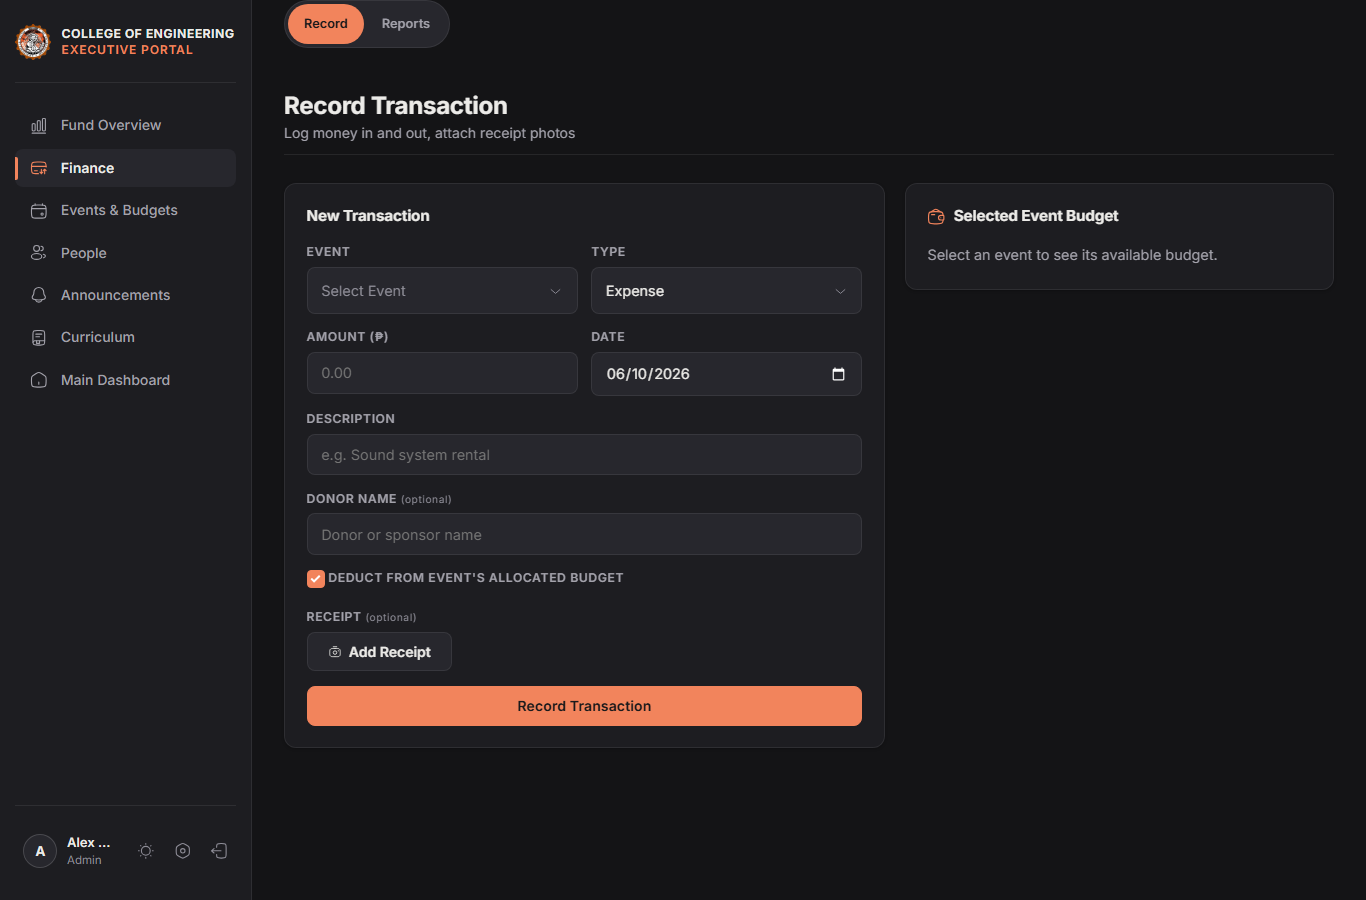
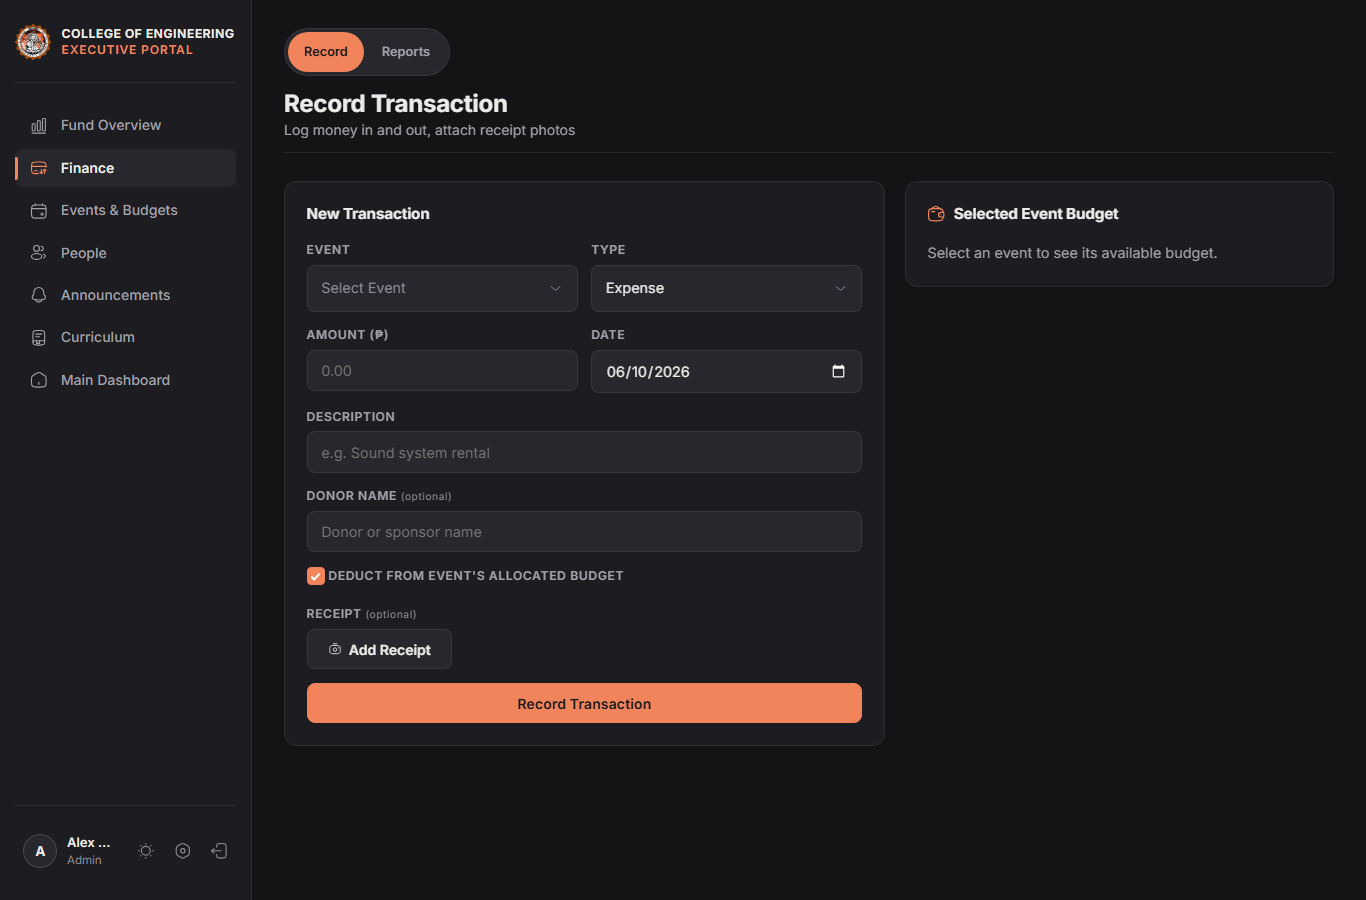
fix(ui): place view tabs inside the sticky header at content width
The pill track sat in its own band above the header, floating with a
large gap under it. It is now the header's first row: content width,
sharing the title's left edge, sticky with the header, with the title
left and the header controls right beneath it (grid when a header holds
a track; single column on phones).

Verified: verify-nav-consolidation 59/59, verify-student-experience
37/37, check_txs exit 0.

diff --git a/client/index.html b/client/index.html
@@ -408,11 +408,11 @@
 
       <!-- ANNOUNCEMENTS -->
       <section class="view" id="view-announcements">
-        <div class="view-tabs" role="tablist" aria-label="Updates">
-          <button type="button" class="view-tab" role="tab" aria-selected="false" data-view="announcements">Announcements</button>
-          <button type="button" class="view-tab" role="tab" aria-selected="false" data-view="notifications">For you</button>
-        </div>
         <div class="view-header">
+          <div class="view-tabs" role="tablist" aria-label="Updates">
+            <button type="button" class="view-tab" role="tab" aria-selected="false" data-view="announcements">Announcements</button>
+            <button type="button" class="view-tab" role="tab" aria-selected="false" data-view="notifications">For you</button>
+          </div>
           <div>
             <h2>Announcements</h2>
             <p class="view-sub">Every notice from the Student Council, newest first</p>
@@ -427,11 +427,11 @@
 
       <!-- NOTIFICATIONS -->
       <section class="view" id="view-notifications">
-        <div class="view-tabs" role="tablist" aria-label="Updates">
-          <button type="button" class="view-tab" role="tab" aria-selected="false" data-view="announcements">Announcements</button>
-          <button type="button" class="view-tab" role="tab" aria-selected="false" data-view="notifications">For you</button>
-        </div>
         <div class="view-header">
+          <div class="view-tabs" role="tablist" aria-label="Updates">
+            <button type="button" class="view-tab" role="tab" aria-selected="false" data-view="announcements">Announcements</button>
+            <button type="button" class="view-tab" role="tab" aria-selected="false" data-view="notifications">For you</button>
+          </div>
           <div>
             <h2>Notifications</h2>
             <p class="view-sub">Updates about your enrollment, your subjects, and council activity</p>
@@ -486,12 +486,12 @@
 
       <!-- TRANSACTIONS -->
       <section id="view-transactions" class="view ledger-view">
-        <div class="view-tabs" role="tablist" aria-label="Money">
-          <button type="button" class="view-tab" role="tab" aria-selected="false" data-view="transactions">Ledger</button>
-          <button type="button" class="view-tab" role="tab" aria-selected="false" data-view="income">Income</button>
-          <button type="button" class="view-tab" role="tab" aria-selected="false" data-view="reports">Reports</button>
-        </div>
         <div class="view-header ledger-header">
+          <div class="view-tabs" role="tablist" aria-label="Money">
+            <button type="button" class="view-tab" role="tab" aria-selected="false" data-view="transactions">Ledger</button>
+            <button type="button" class="view-tab" role="tab" aria-selected="false" data-view="income">Income</button>
+            <button type="button" class="view-tab" role="tab" aria-selected="false" data-view="reports">Reports</button>
+          </div>
           <div class="ledger-title-row">
             <h2>Transactions</h2>
             <div id="tx-overbudget-alert" class="hidden tx-overbudget-badge">
@@ -541,12 +541,12 @@
 
       <!-- TOTAL INCOME -->
       <section id="view-income" class="view">
-        <div class="view-tabs" role="tablist" aria-label="Money">
-          <button type="button" class="view-tab" role="tab" aria-selected="false" data-view="transactions">Ledger</button>
-          <button type="button" class="view-tab" role="tab" aria-selected="false" data-view="income">Income</button>
-          <button type="button" class="view-tab" role="tab" aria-selected="false" data-view="reports">Reports</button>
-        </div>
         <div class="view-header">
+          <div class="view-tabs" role="tablist" aria-label="Money">
+            <button type="button" class="view-tab" role="tab" aria-selected="false" data-view="transactions">Ledger</button>
+            <button type="button" class="view-tab" role="tab" aria-selected="false" data-view="income">Income</button>
+            <button type="button" class="view-tab" role="tab" aria-selected="false" data-view="reports">Reports</button>
+          </div>
           <div>
             <h2>Total Income Tracker</h2>
             <p class="view-sub">Track all external injections into the General Fund</p>
@@ -613,12 +613,12 @@
 
       <!-- REPORTS -->
       <section class="view reports-view" id="view-reports">
-        <div class="view-tabs" role="tablist" aria-label="Money">
-          <button type="button" class="view-tab" role="tab" aria-selected="false" data-view="transactions">Ledger</button>
-          <button type="button" class="view-tab" role="tab" aria-selected="false" data-view="income">Income</button>
-          <button type="button" class="view-tab" role="tab" aria-selected="false" data-view="reports">Reports</button>
-        </div>
         <div class="view-header">
+          <div class="view-tabs" role="tablist" aria-label="Money">
+            <button type="button" class="view-tab" role="tab" aria-selected="false" data-view="transactions">Ledger</button>
+            <button type="button" class="view-tab" role="tab" aria-selected="false" data-view="income">Income</button>
+            <button type="button" class="view-tab" role="tab" aria-selected="false" data-view="reports">Reports</button>
+          </div>
           <div>
             <h2>Financial Reports</h2>
             <p class="view-sub">Monthly summaries and breakdowns</p>
@@ -639,12 +639,12 @@
 
       <!-- Student Dashboard -->
       <section class="view" id="view-units">
-        <div class="view-tabs" role="tablist" aria-label="Academics">
-          <button type="button" class="view-tab" role="tab" aria-selected="false" data-view="units">Progress</button>
-          <button type="button" class="view-tab" role="tab" aria-selected="false" data-view="enrollment">Enrollment</button>
-          <a href="/cv-builder" class="view-tab" role="tab">Career Passport</a>
-        </div>
         <div class="view-header">
+          <div class="view-tabs" role="tablist" aria-label="Academics">
+            <button type="button" class="view-tab" role="tab" aria-selected="false" data-view="units">Progress</button>
+            <button type="button" class="view-tab" role="tab" aria-selected="false" data-view="enrollment">Enrollment</button>
+            <a href="/cv-builder" class="view-tab" role="tab">Career Passport</a>
+          </div>
           <div>
             <h2>Academic Progress</h2>
             <p class="view-sub">Log your subjects, grades, and graduation progress. Self-reported: this record is unofficial unless it carries the Registrar's seal.</p>
@@ -713,12 +713,12 @@
 
       <!-- Enrollment Verification (Phase B) -->
       <section class="view" id="view-enrollment">
-        <div class="view-tabs" role="tablist" aria-label="Academics">
-          <button type="button" class="view-tab" role="tab" aria-selected="false" data-view="units">Progress</button>
-          <button type="button" class="view-tab" role="tab" aria-selected="false" data-view="enrollment">Enrollment</button>
-          <a href="/cv-builder" class="view-tab" role="tab">Career Passport</a>
-        </div>
         <div class="view-header">
+          <div class="view-tabs" role="tablist" aria-label="Academics">
+            <button type="button" class="view-tab" role="tab" aria-selected="false" data-view="units">Progress</button>
+            <button type="button" class="view-tab" role="tab" aria-selected="false" data-view="enrollment">Enrollment</button>
+            <a href="/cv-builder" class="view-tab" role="tab">Career Passport</a>
+          </div>
           <div>
             <h2>Enrollment Verification</h2>
             <p class="view-sub">Build your proposed load, send it to your Program Head for review, and the Student Assistant (SA) encodes the verified list.</p>

diff --git a/client/officer.html b/client/officer.html
@@ -157,11 +157,11 @@
 
       <!-- 2. Record Transaction -->
       <section class="of-view" id="of-view-record">
-        <div class="view-tabs" role="tablist" aria-label="Finance">
-          <button type="button" class="view-tab" role="tab" aria-selected="false" data-of="record">Record</button>
-          <button type="button" class="view-tab" role="tab" aria-selected="false" data-of="reports">Reports</button>
-        </div>
         <div class="view-header of-view-head">
+          <div class="view-tabs" role="tablist" aria-label="Finance">
+            <button type="button" class="view-tab" role="tab" aria-selected="false" data-of="record">Record</button>
+            <button type="button" class="view-tab" role="tab" aria-selected="false" data-of="reports">Reports</button>
+          </div>
           <div>
             <h2>Record Transaction</h2>
             <p class="view-sub">Log money in and out, attach receipt photos</p>
@@ -298,11 +298,11 @@
 
       <!-- 4. Reports & Paper Trail -->
       <section class="of-view" id="of-view-reports">
-        <div class="view-tabs" role="tablist" aria-label="Finance">
-          <button type="button" class="view-tab" role="tab" aria-selected="false" data-of="record">Record</button>
-          <button type="button" class="view-tab" role="tab" aria-selected="false" data-of="reports">Reports</button>
-        </div>
         <div class="view-header of-view-head">
+          <div class="view-tabs" role="tablist" aria-label="Finance">
+            <button type="button" class="view-tab" role="tab" aria-selected="false" data-of="record">Record</button>
+            <button type="button" class="view-tab" role="tab" aria-selected="false" data-of="reports">Reports</button>
+          </div>
           <div>
             <h2>Reports &amp; Paper Trail</h2>
             <p class="view-sub">Financial summaries, exportable audit sheets, and the immutable audit log</p>
@@ -350,11 +350,11 @@
 
       <!-- 5. People & Access -->
       <section class="of-view" id="of-view-people">
-        <div class="view-tabs" role="tablist" aria-label="People">
-          <button type="button" class="view-tab" role="tab" aria-selected="false" data-of="people">Accounts</button>
-          <button type="button" class="view-tab" role="tab" aria-selected="false" data-of="roster">Enrolled roster</button>
-        </div>
         <div class="view-header of-view-head">
+          <div class="view-tabs" role="tablist" aria-label="People">
+            <button type="button" class="view-tab" role="tab" aria-selected="false" data-of="people">Accounts</button>
+            <button type="button" class="view-tab" role="tab" aria-selected="false" data-of="roster">Enrolled roster</button>
+          </div>
           <div>
             <h2>People &amp; Access</h2>
             <p class="view-sub" id="of-people-sub">Registered accounts and access privileges</p>
@@ -461,11 +461,11 @@
 
       <!-- 7. Enrolled Roster Management (Executive / Admin Only) -->
       <section class="of-view" id="of-view-roster">
-        <div class="view-tabs" role="tablist" aria-label="People">
-          <button type="button" class="view-tab" role="tab" aria-selected="false" data-of="people">Accounts</button>
-          <button type="button" class="view-tab" role="tab" aria-selected="false" data-of="roster">Enrolled roster</button>
-        </div>
         <div class="view-header of-view-head">
+          <div class="view-tabs" role="tablist" aria-label="People">
+            <button type="button" class="view-tab" role="tab" aria-selected="false" data-of="people">Accounts</button>
+            <button type="button" class="view-tab" role="tab" aria-selected="false" data-of="roster">Enrolled roster</button>
+          </div>
           <div>
             <h2>Official Enrolled Roster</h2>
             <p class="view-sub">Manage officially enrolled engineering students database for student portal verification</p>

diff --git a/client/styles/main.css b/client/styles/main.css
@@ -9424,7 +9424,7 @@ html body .bottom-nav .bottom-nav-item span:not(.nav-icon) { font-size: 0.72rem 
   align-items: center;
   gap: 2px;
   max-width: 100%;
-  margin-bottom: 1rem;
+  margin-bottom: 0.85rem;
   padding: 3px;
   overflow-x: auto;
   background: var(--bg-surface-raised);
@@ -9471,7 +9471,27 @@ html body .bottom-nav .bottom-nav-item span:not(.nav-icon) { font-size: 0.72rem 
 }
 .view-tab.active.has-unread::after { background: var(--accent-text-on); }
 
+/* Inside a view header the track is the header's first row at its content
+   width; the title sits beneath it on the left and the header's controls on
+   the right, the same arrangement the flex header produced. A grid is used
+   because a flex row cannot both break the line after the track and keep
+   the track at content width. */
+.view-header:has(> .view-tabs) {
+  display: grid;
+  grid-template-columns: minmax(0, 1fr) auto;
+  align-items: center;
+  column-gap: 1rem;
+  row-gap: 0.85rem;
+}
+.view-header > .view-tabs {
+  grid-column: 1 / -1;
+  justify-self: start;
+  margin-bottom: 0;
+}
+
 @media (max-width: 480px) {
   .view-tabs { display: flex; width: 100%; }
+  .view-header:has(> .view-tabs) { grid-template-columns: minmax(0, 1fr); row-gap: 0.5rem; }
+  .view-header > .view-tabs { justify-self: stretch; }
   .view-tab { flex: 1 1 0; padding: 0 0.5rem; text-align: center; }
 }

diff --git a/journal/2026-10-06.md b/journal/2026-10-06.md
@@ -22,3 +22,4 @@
 - [16:02] Folded the student sidebar from 12 entries to 5 (Dashboard, Money, Events, Updates, Academics) and the officer sidebar from 8 to 6 (Fund Overview, Finance, Events, People, Announcements, Curriculum). Related views now share one entry and switch through a pill track at the top of the view (`.view-tabs` / `.view-tab` in `client/styles/main.css`): Money = Ledger, Income, Reports; Updates = Announcements, For you; Academics = Progress, Enrollment, Career Passport (link); Finance = Record, Reports; People = Accounts, Enrolled roster. Every view keeps its id, heading, loader and markup; only the way users reach them changed. Groups live in `UI.VIEW_GROUPS` (`client/js/ui.js`) and `OF_GROUPS` in `switchSection` (`officer-app.js`); the group entry stays active for every member view. Phone bottom nav is Home, Money, Events, Academics, More; the More sheets lost the rows that became tabs. Unread badges roll up to the group entry and the tabs (`notifications.js`), and tapping a tab marks its category read like the old sidebar entry did. Cache-busters bumped (main.css 8.1, ui.js 5.11, notifications.js 5.5, app.js 6.8, officer-app.js 6.7). Pattern documented in `UI_DESIGN.md` section 6.
 - [16:02] Verified with the server on port 3000 and the mocked backend: new `scripts/verify-nav-consolidation.mjs` 56/56 (both portals, desktop 1366 and phone 375: entry order, every tab, active states, aria-selected, badges on load and cleared on open, refresh and #hash deep links, More sheet contents, no horizontal overflow, 40px tabs, zero page errors), screenshots in `reports/ui-verification/2026-10-06-nav-consolidation/`. `scripts/verify-student-experience.mjs` 39/39 after updating its sidebar-order expectation; `scripts/student-walkthrough.mjs` exit 0 (its one console note, `ERR_FAILED`, is also in the 2026-09-28 run on main). `node check_txs.js` exit 0. `map:code:check` exit 0. Design hook findings on these files (11.2px and 9.6px text, hover contrast on `--text-tertiary`) are pre-existing CSS outside this change and were left as is.
 - [16:30] **Student dashboard cleanup (same branch):** removed the five-tile status strip (`#student-status` markup, `loadStudentStatus` in `dashboard.js`, `.student-status` and `.status-tile` rules) after an improve-ui audit of the phone screenshot: every tile duplicated a destination now one tap away in the grouped nav, the tiles misused the coral left rail that marks the active nav section, and the strip pushed the fund balance below the fold. Dashboard subtitle back to the funds-only line. Phone bottom-nav label shortened to "Academic" because "Academics" truncated at 375px (regression from the nav commit). Cache-buster dashboard.js 5.7. Verified: `verify-nav-consolidation.mjs` 58/58 (adds label-truncation and no-strip checks, phone dashboard screenshot), `verify-student-experience.mjs` 37/37 (strip assertions replaced by an absence check), `check_txs.js` exit 0.
+- [16:39] **Tab placement:** moved every `.view-tabs` track from a band above the view header into the header itself as its first row (7 student views, 4 officer views). Headers that hold a track lay out as a two-column grid (`.view-header:has(> .view-tabs)`, `main.css`): track at content width on top, title left, controls right, all under the header's sticky position and bottom rule; on phones a single column with the track spanning the width. First attempt with flex stretched the track across the header (caught by the screenshot), replaced by the grid. Verified: `verify-nav-consolidation.mjs` 59/59 with a new placement check (track inside the sticky header, shared left edge with the title, 19px gap, 245px track, filters beside the title), `verify-student-experience.mjs` 37/37, `check_txs.js` exit 0; screenshots refreshed in `reports/ui-verification/2026-10-06-nav-consolidation/`.
